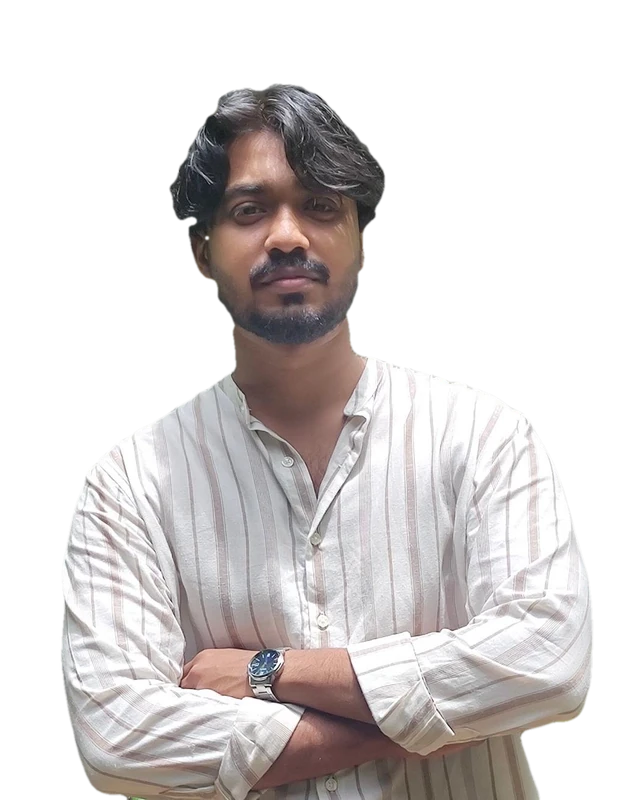
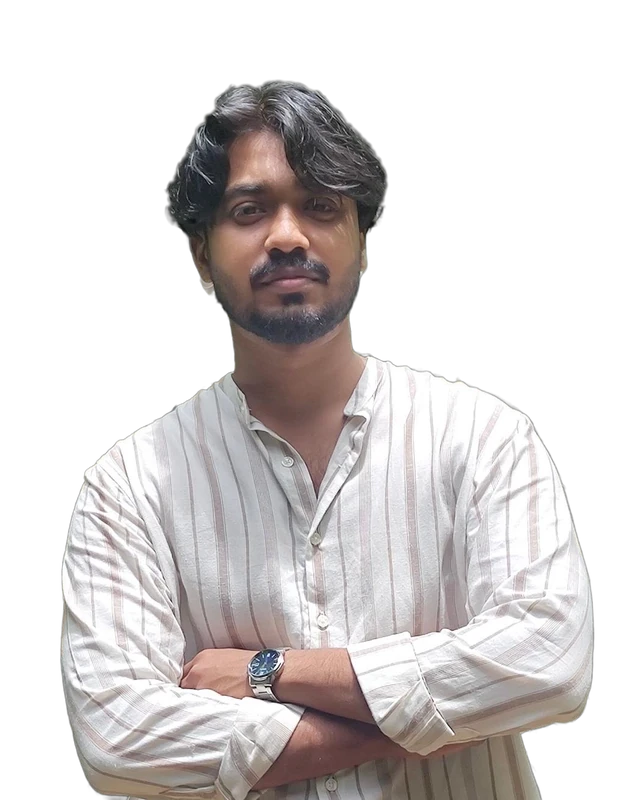
Dark theme and portrait recut for a black background
Claude-Session: https://claude.ai/code/session_01CJPsTJ3P69nUV2d9rVprZx

diff --git a/src/components/Page.tsx b/src/components/Page.tsx
@@ -70,7 +70,7 @@ export function Hero() {
         <div>
           <motion.p
             {...rise(0)}
-            className="mb-7 inline-flex items-center gap-2 rounded-full border border-line bg-white px-3 py-1 text-[13px] text-body"
+            className="mb-7 inline-flex items-center gap-2 rounded-full border border-line bg-surface px-3 py-1 text-[13px] text-body"
           >
             <span className="h-1.5 w-1.5 rounded-full bg-emerald-500" />
             Open to AI &amp; data analyst roles
@@ -92,13 +92,13 @@ export function Hero() {
               href={site.resumeHref}
               target="_blank"
               rel="noopener"
-              className="inline-flex items-center gap-2 rounded-md bg-ink px-5 py-2.5 text-[15px] font-medium text-white transition-opacity hover:opacity-85"
+              className="inline-flex items-center gap-2 rounded-md bg-ink px-5 py-2.5 text-[15px] font-medium text-black transition-opacity hover:opacity-85"
             >
               <ArrowDownToLine size={16} /> Download résumé
             </a>
             <a
               href={`mailto:${site.email}`}
-              className="inline-flex items-center gap-2 rounded-md border border-line-strong bg-white px-5 py-2.5 text-[15px] font-medium text-ink transition-colors hover:border-ink"
+              className="inline-flex items-center gap-2 rounded-md border border-line-strong bg-surface px-5 py-2.5 text-[15px] font-medium text-ink transition-colors hover:border-ink"
             >
               <Mail size={16} /> Email me
             </a>
@@ -119,8 +119,8 @@ export function Hero() {
           transition={{ duration: 0.7, ease: [0.22, 1, 0.36, 1], delay: 0.15 }}
           className="relative mx-auto w-full max-w-[380px]"
         >
-          <div className="relative aspect-[4/5] overflow-hidden rounded-2xl border border-line bg-gradient-to-b from-[#f1f1f2] to-[#e4e5e8] shadow-[0_1px_0_rgba(0,0,0,0.04),0_24px_48px_-24px_rgba(0,0,0,0.25)]">
-            <div className="grid-bg absolute inset-0 opacity-70" aria-hidden="true" />
+          <div className="relative aspect-[4/5] overflow-hidden rounded-2xl border border-line bg-gradient-to-b from-[#121212] to-black shadow-[0_30px_60px_-30px_rgba(0,0,0,0.9)]">
+            <div className="grid-bg absolute inset-0 opacity-60" aria-hidden="true" />
             <img
               src={site.photo}
               alt={`Portrait of ${site.name}`}
@@ -128,8 +128,9 @@ export function Hero() {
               height={800}
               className="absolute inset-x-0 bottom-0 mx-auto h-[96%] w-auto object-contain object-bottom"
             />
+            <div className="pointer-events-none absolute inset-x-0 bottom-0 h-28 bg-gradient-to-t from-black via-black/60 to-transparent" aria-hidden="true" />
           </div>
-          <figcaption className="absolute -bottom-4 left-4 right-4 flex items-center justify-between gap-3 rounded-xl border border-line bg-white/95 px-4 py-3 shadow-[0_12px_24px_-14px_rgba(0,0,0,0.3)] backdrop-blur">
+          <figcaption className="absolute -bottom-4 left-4 right-4 flex items-center justify-between gap-3 rounded-xl border border-line bg-raised/90 px-4 py-3 shadow-[0_12px_24px_-14px_rgba(0,0,0,0.8)] backdrop-blur">
             <span>
               <span className="block text-[14px] font-semibold text-ink">{site.name}</span>
               <span className="block text-[13px] text-muted">{site.role}</span>
@@ -142,7 +143,7 @@ export function Hero() {
       </div>
 
       <div className={`${shell} relative pb-20`}>
-        <dl className="grid grid-cols-2 overflow-hidden rounded-xl border border-line bg-white md:grid-cols-4">
+        <dl className="grid grid-cols-2 overflow-hidden rounded-xl border border-line bg-surface md:grid-cols-4">
           {stats.map(([k, v], i) => (
             <div
               key={k}
@@ -162,7 +163,7 @@ export function Hero() {
 
 export function Focus() {
   return (
-    <section id="work" className="border-t border-line bg-white py-20 md:py-28">
+    <section id="work" className="border-t border-line bg-surface py-20 md:py-28">
       <div className={shell}>
         <SectionHead
           index="01"
@@ -182,7 +183,7 @@ export function Focus() {
               <p className="mt-3 text-[15px] leading-relaxed">{f.body}</p>
               <ul className="mt-5 flex flex-wrap gap-2">
                 {f.tags.map((t) => (
-                  <li key={t} className="rounded-md bg-bg px-2.5 py-1 font-mono text-[12px] text-body ring-1 ring-line">
+                  <li key={t} className="rounded-md bg-raised px-2.5 py-1 font-mono text-[12px] text-body ring-1 ring-line">
                     {t}
                   </li>
                 ))}
@@ -252,15 +253,15 @@ export function Experience() {
 function ProjectArt({ name }: { name: string }) {
   if (name === "PhishFinder") {
     return (
-      <div className="w-full max-w-[300px] rounded-lg border border-line bg-white p-4 shadow-sm">
-        <div className="flex items-center gap-2 rounded-md bg-bg px-3 py-2 font-mono text-[11px] text-muted ring-1 ring-line">
+      <div className="w-full max-w-[300px] rounded-lg border border-line bg-surface p-4 ">
+        <div className="flex items-center gap-2 rounded-md bg-raised px-3 py-2 font-mono text-[11px] text-muted ring-1 ring-line">
           <span className="h-2 w-2 rounded-full bg-red-500" /> secure-login-verify.example
         </div>
         <div className="mt-4 flex items-center justify-between">
           <span className="text-[13px] font-semibold text-ink">Phishing risk</span>
-          <span className="rounded-full bg-red-50 px-2 py-0.5 text-[11px] font-medium text-red-600 ring-1 ring-red-200">Blocked</span>
+          <span className="rounded-full bg-red-500/10 px-2 py-0.5 text-[11px] font-medium text-red-400 ring-1 ring-red-500/30">Blocked</span>
         </div>
-        <div className="mt-3 h-1.5 overflow-hidden rounded-full bg-bg ring-1 ring-line">
+        <div className="mt-3 h-1.5 overflow-hidden rounded-full bg-raised ring-1 ring-line">
           <span className="block h-full w-[82%] rounded-full bg-red-500" />
         </div>
         <p className="mt-3 font-mono text-[10.5px] text-muted">model: random_forest · input: url features</p>
@@ -268,7 +269,7 @@ function ProjectArt({ name }: { name: string }) {
     )
   }
   return (
-    <div className="w-full max-w-[300px] rounded-lg border border-line bg-white p-4 shadow-sm">
+    <div className="w-full max-w-[300px] rounded-lg border border-line bg-surface p-4 ">
       <p className="text-[13px] font-semibold text-ink">Case overview</p>
       <div className="mt-3 space-y-2">
         {[
@@ -276,7 +277,7 @@ function ProjectArt({ name }: { name: string }) {
           ["Case under review", "bg-amber-500"],
           ["Fine payment", "bg-line-strong"],
         ].map(([label, dot]) => (
-          <div key={label} className="flex items-center gap-2.5 rounded-md bg-bg px-3 py-2 text-[12px] text-body ring-1 ring-line">
+          <div key={label} className="flex items-center gap-2.5 rounded-md bg-raised px-3 py-2 text-[12px] text-body ring-1 ring-line">
             <span className={`h-2 w-2 rounded-full ${dot}`} />
             {label}
           </div>
@@ -288,13 +289,13 @@ function ProjectArt({ name }: { name: string }) {
 
 export function Projects() {
   return (
-    <section id="projects" className="border-t border-line bg-white py-20 md:py-28">
+    <section id="projects" className="border-t border-line bg-surface py-20 md:py-28">
       <div className={shell}>
         <SectionHead index="03" label="Projects" title="Things I’ve built" />
         <div className="grid gap-6 md:grid-cols-2">
           {projects.map((p, i) => (
             <Reveal key={p.name} delay={i * 0.06}>
-              <article className="group flex h-full flex-col overflow-hidden rounded-xl border border-line bg-white transition-shadow duration-200 hover:shadow-[0_20px_40px_-24px_rgba(0,0,0,0.3)]">
+              <article className="group flex h-full flex-col overflow-hidden rounded-xl border border-line bg-surface transition-shadow duration-200 hover:border-line-strong">
                 <div className="relative grid h-56 place-items-center overflow-hidden border-b border-line bg-bg px-6">
                   <div className="grid-bg absolute inset-0" aria-hidden="true" />
                   <div className="relative w-full transition-transform duration-300 group-hover:-translate-y-1 [&>*]:mx-auto">
@@ -310,7 +311,7 @@ export function Projects() {
                   </p>
                   <ul className="mt-auto flex flex-wrap gap-2 pt-6">
                     {p.technologies.map((t) => (
-                      <li key={t} className="rounded-md bg-bg px-2.5 py-1 font-mono text-[12px] text-body ring-1 ring-line">
+                      <li key={t} className="rounded-md bg-raised px-2.5 py-1 font-mono text-[12px] text-body ring-1 ring-line">
                         {t}
                       </li>
                     ))}
@@ -332,7 +333,7 @@ export function Skills() {
     <section id="skills" className="py-20 md:py-28">
       <div className={shell}>
         <SectionHead index="04" label="Skills" title="Tools, skills & credentials" />
-        <Reveal className="grid overflow-hidden rounded-xl border border-line bg-white md:grid-cols-3">
+        <Reveal className="grid overflow-hidden rounded-xl border border-line bg-surface md:grid-cols-3">
           {skills.map((g, i) => (
             <div key={g.label} className={`p-7 ${i > 0 ? "border-t border-line md:border-l md:border-t-0" : ""}`}>
               <h3 className="font-mono text-[12px] font-normal uppercase tracking-[0.14em] text-muted">{g.label}</h3>
@@ -348,7 +349,7 @@ export function Skills() {
         </Reveal>
 
         <div className="mt-6 grid gap-6 md:grid-cols-[1.6fr_1fr]">
-          <Reveal className="rounded-xl border border-line bg-white p-7">
+          <Reveal className="rounded-xl border border-line bg-surface p-7">
             <h3 className="font-mono text-[12px] font-normal uppercase tracking-[0.14em] text-muted">Certifications</h3>
             <ul className="mt-4">
               {certifications.map((c) => (
@@ -359,13 +360,13 @@ export function Skills() {
               ))}
             </ul>
           </Reveal>
-          <Reveal className="flex flex-col rounded-xl border border-line bg-white p-7">
+          <Reveal className="flex flex-col rounded-xl border border-line bg-surface p-7">
             <h3 className="font-mono text-[12px] font-normal uppercase tracking-[0.14em] text-muted">Education</h3>
             <p className="mt-4 text-[1.15rem] font-semibold leading-snug tracking-tight text-ink">{education.degree}</p>
             <p className="mt-2 text-[15px]">{education.school}</p>
             <div className="mt-auto flex items-center justify-between pt-6 text-[14px]">
               <span className="font-mono text-muted">{education.period}</span>
-              <span className="rounded-md bg-bg px-2.5 py-1 font-medium text-ink ring-1 ring-line">{education.note}</span>
+              <span className="rounded-md bg-raised px-2.5 py-1 font-medium text-ink ring-1 ring-line">{education.note}</span>
             </div>
           </Reveal>
         </div>
@@ -379,9 +380,9 @@ export function Skills() {
 export function Contact() {
   return (
     <section id="contact" className="px-5 pb-10 sm:px-8">
-      <Reveal className="relative mx-auto max-w-6xl overflow-hidden rounded-2xl bg-ink px-7 py-16 text-white md:px-14 md:py-20">
+      <Reveal className="relative mx-auto max-w-6xl overflow-hidden rounded-2xl border border-line bg-surface px-7 py-16 text-ink md:px-14 md:py-20">
         <div
-          className="pointer-events-none absolute inset-0 opacity-[0.12]"
+          className="pointer-events-none absolute inset-0 opacity-[0.07]"
           aria-hidden="true"
           style={{
             backgroundImage:
@@ -393,18 +394,18 @@ export function Contact() {
         />
         <div className="relative grid gap-10 md:grid-cols-[1.4fr_1fr] md:items-end">
           <div>
-            <p className="font-mono text-[12px] uppercase tracking-[0.14em] text-white/50">05 / Contact</p>
-            <h2 className="mt-4 text-[clamp(2.1rem,4.6vw,3.4rem)] font-semibold leading-[1.05] !text-white">
+            <p className="font-mono text-[12px] uppercase tracking-[0.14em] text-muted">05 / Contact</p>
+            <h2 className="mt-4 text-[clamp(2.1rem,4.6vw,3.4rem)] font-semibold leading-[1.05]">
               Hiring for an AI or data role? Let’s talk.
             </h2>
-            <p className="mt-5 max-w-lg text-[16px] text-white/65">
+            <p className="mt-5 max-w-lg text-[16px] text-body">
               I’m available for AI data analyst and data analyst roles. Email is the quickest way to reach me.
             </p>
           </div>
           <div className="flex flex-col gap-3">
             <a
               href={`mailto:${site.email}`}
-              className="inline-flex items-center justify-between gap-3 rounded-md bg-white px-5 py-3.5 text-[15px] font-medium text-ink transition-opacity hover:opacity-90"
+              className="inline-flex items-center justify-between gap-3 rounded-md bg-ink px-5 py-3.5 text-[15px] font-medium text-black transition-opacity hover:opacity-90"
             >
               <span className="inline-flex items-center gap-2.5">
                 <Mail size={17} /> {site.email}
@@ -413,7 +414,7 @@ export function Contact() {
             </a>
             <a
               href={site.phoneHref}
-              className="inline-flex items-center justify-between gap-3 rounded-md border border-white/20 px-5 py-3.5 text-[15px] text-white transition-colors hover:bg-white/10"
+              className="inline-flex items-center justify-between gap-3 rounded-md border border-line-strong px-5 py-3.5 text-[15px] text-ink transition-colors hover:bg-white/[0.06]"
             >
               <span className="inline-flex items-center gap-2.5">
                 <Phone size={16} /> {site.phoneDisplay}
@@ -423,7 +424,7 @@ export function Contact() {
               href={site.linkedin}
               target="_blank"
               rel="noopener noreferrer"
-              className="inline-flex items-center justify-between gap-3 rounded-md border border-white/20 px-5 py-3.5 text-[15px] text-white transition-colors hover:bg-white/10"
+              className="inline-flex items-center justify-between gap-3 rounded-md border border-line-strong px-5 py-3.5 text-[15px] text-ink transition-colors hover:bg-white/[0.06]"
             >
               LinkedIn <ArrowUpRight size={17} />
             </a>

diff --git a/src/components/Nav.tsx b/src/components/Nav.tsx
@@ -21,7 +21,7 @@ export function Nav() {
     >
       <nav aria-label="Primary" className="mx-auto flex h-16 max-w-6xl items-center justify-between px-5 sm:px-8">
         <a href="#top" className="flex items-center gap-2.5 text-[15px] font-semibold tracking-tight text-ink">
-          <span className="grid h-7 w-7 place-items-center rounded-md bg-ink font-mono text-[11px] font-medium text-white">
+          <span className="grid h-7 w-7 place-items-center rounded-md bg-ink font-mono text-[11px] font-medium text-black">
             NR
           </span>
           {site.name}
@@ -32,14 +32,14 @@ export function Nav() {
             <a
               key={item.id}
               href={`#${item.id}`}
-              className="rounded-md px-3 py-1.5 text-[14px] text-body transition-colors hover:bg-black/[0.04] hover:text-ink"
+              className="rounded-md px-3 py-1.5 text-[14px] text-body transition-colors hover:bg-white/[0.06] hover:text-ink"
             >
               {item.label}
             </a>
           ))}
           <a
             href="#contact"
-            className="rounded-md px-3 py-1.5 text-[14px] text-body transition-colors hover:bg-black/[0.04] hover:text-ink"
+            className="rounded-md px-3 py-1.5 text-[14px] text-body transition-colors hover:bg-white/[0.06] hover:text-ink"
           >
             Contact
           </a>
@@ -47,7 +47,7 @@ export function Nav() {
             href={site.resumeHref}
             target="_blank"
             rel="noopener"
-            className="ml-2 rounded-md bg-ink px-3.5 py-1.5 text-[14px] font-medium text-white transition-opacity hover:opacity-85"
+            className="ml-2 rounded-md bg-ink px-3.5 py-1.5 text-[14px] font-medium text-black transition-opacity hover:opacity-85"
           >
             Résumé
           </a>
@@ -55,7 +55,7 @@ export function Nav() {
 
         <button
           type="button"
-          className="grid h-9 w-9 place-items-center rounded-md text-ink hover:bg-black/5 md:hidden"
+          className="grid h-9 w-9 place-items-center rounded-md text-ink hover:bg-white/10 md:hidden"
           aria-label={open ? "Close menu" : "Open menu"}
           aria-expanded={open}
           onClick={() => setOpen((v) => !v)}
@@ -80,7 +80,7 @@ export function Nav() {
             href={site.resumeHref}
             target="_blank"
             rel="noopener"
-            className="mt-4 block rounded-md bg-ink py-2.5 text-center text-[15px] font-medium text-white"
+            className="mt-4 block rounded-md bg-ink py-2.5 text-center text-[15px] font-medium text-black"
           >
             Download résumé
           </a>

diff --git a/src/index.css b/src/index.css
@@ -4,13 +4,15 @@
   --font-sans: "Geist Variable", ui-sans-serif, system-ui, sans-serif;
   --font-mono: "Geist Mono Variable", ui-monospace, monospace;
 
-  --color-bg: #fafafa;
-  --color-ink: #0a0a0a;
-  --color-body: #4d4d4d;
-  --color-muted: #8f8f8f;
-  --color-line: #ebebeb;
-  --color-line-strong: #d9d9d9;
-  --color-accent: #0a72ef;
+  --color-bg: #000000;
+  --color-surface: #0a0a0a;
+  --color-raised: #141414;
+  --color-ink: #ededed;
+  --color-body: #a1a1a1;
+  --color-muted: #6e6e6e;
+  --color-line: #1f1f1f;
+  --color-line-strong: #333333;
+  --color-accent: #3b9eff;
 }
 
 html {
@@ -41,7 +43,11 @@ body {
 
 ::selection {
   background: var(--color-ink);
-  color: #fff;
+  color: #000;
+}
+
+html {
+  color-scheme: dark;
 }
 
 h1,
@@ -54,8 +60,8 @@ h3 {
 /* faint grid behind the hero, fading out */
 .grid-bg {
   background-image:
-    linear-gradient(to right, rgba(0, 0, 0, 0.045) 1px, transparent 1px),
-    linear-gradient(to bottom, rgba(0, 0, 0, 0.045) 1px, transparent 1px);
+    linear-gradient(to right, rgba(255, 255, 255, 0.05) 1px, transparent 1px),
+    linear-gradient(to bottom, rgba(255, 255, 255, 0.05) 1px, transparent 1px);
   background-size: 56px 56px;
   -webkit-mask-image: radial-gradient(ellipse 70% 65% at 50% 35%, #000 30%, transparent 75%);
   mask-image: radial-gradient(ellipse 70% 65% at 50% 35%, #000 30%, transparent 75%);
@@ -69,7 +75,7 @@ h3 {
   padding: 0.5rem 0.9rem;
   border-radius: 6px;
   background: var(--color-ink);
-  color: #fff;
+  color: #000;
   font-weight: 500;
 }
 

diff --git a/index.html b/index.html
@@ -9,7 +9,7 @@
       content="Nikhil Ravi, AI Data Analyst. Model evaluation, data privacy pipelines, and AI training data at VoiceStack and Amazon."
     />
     <meta name="author" content="Nikhil Ravi" />
-    <meta name="theme-color" content="#fafafa" />
+    <meta name="theme-color" content="#000000" />
     <meta property="og:title" content="Nikhil Ravi" />
     <meta
       property="og:description"
